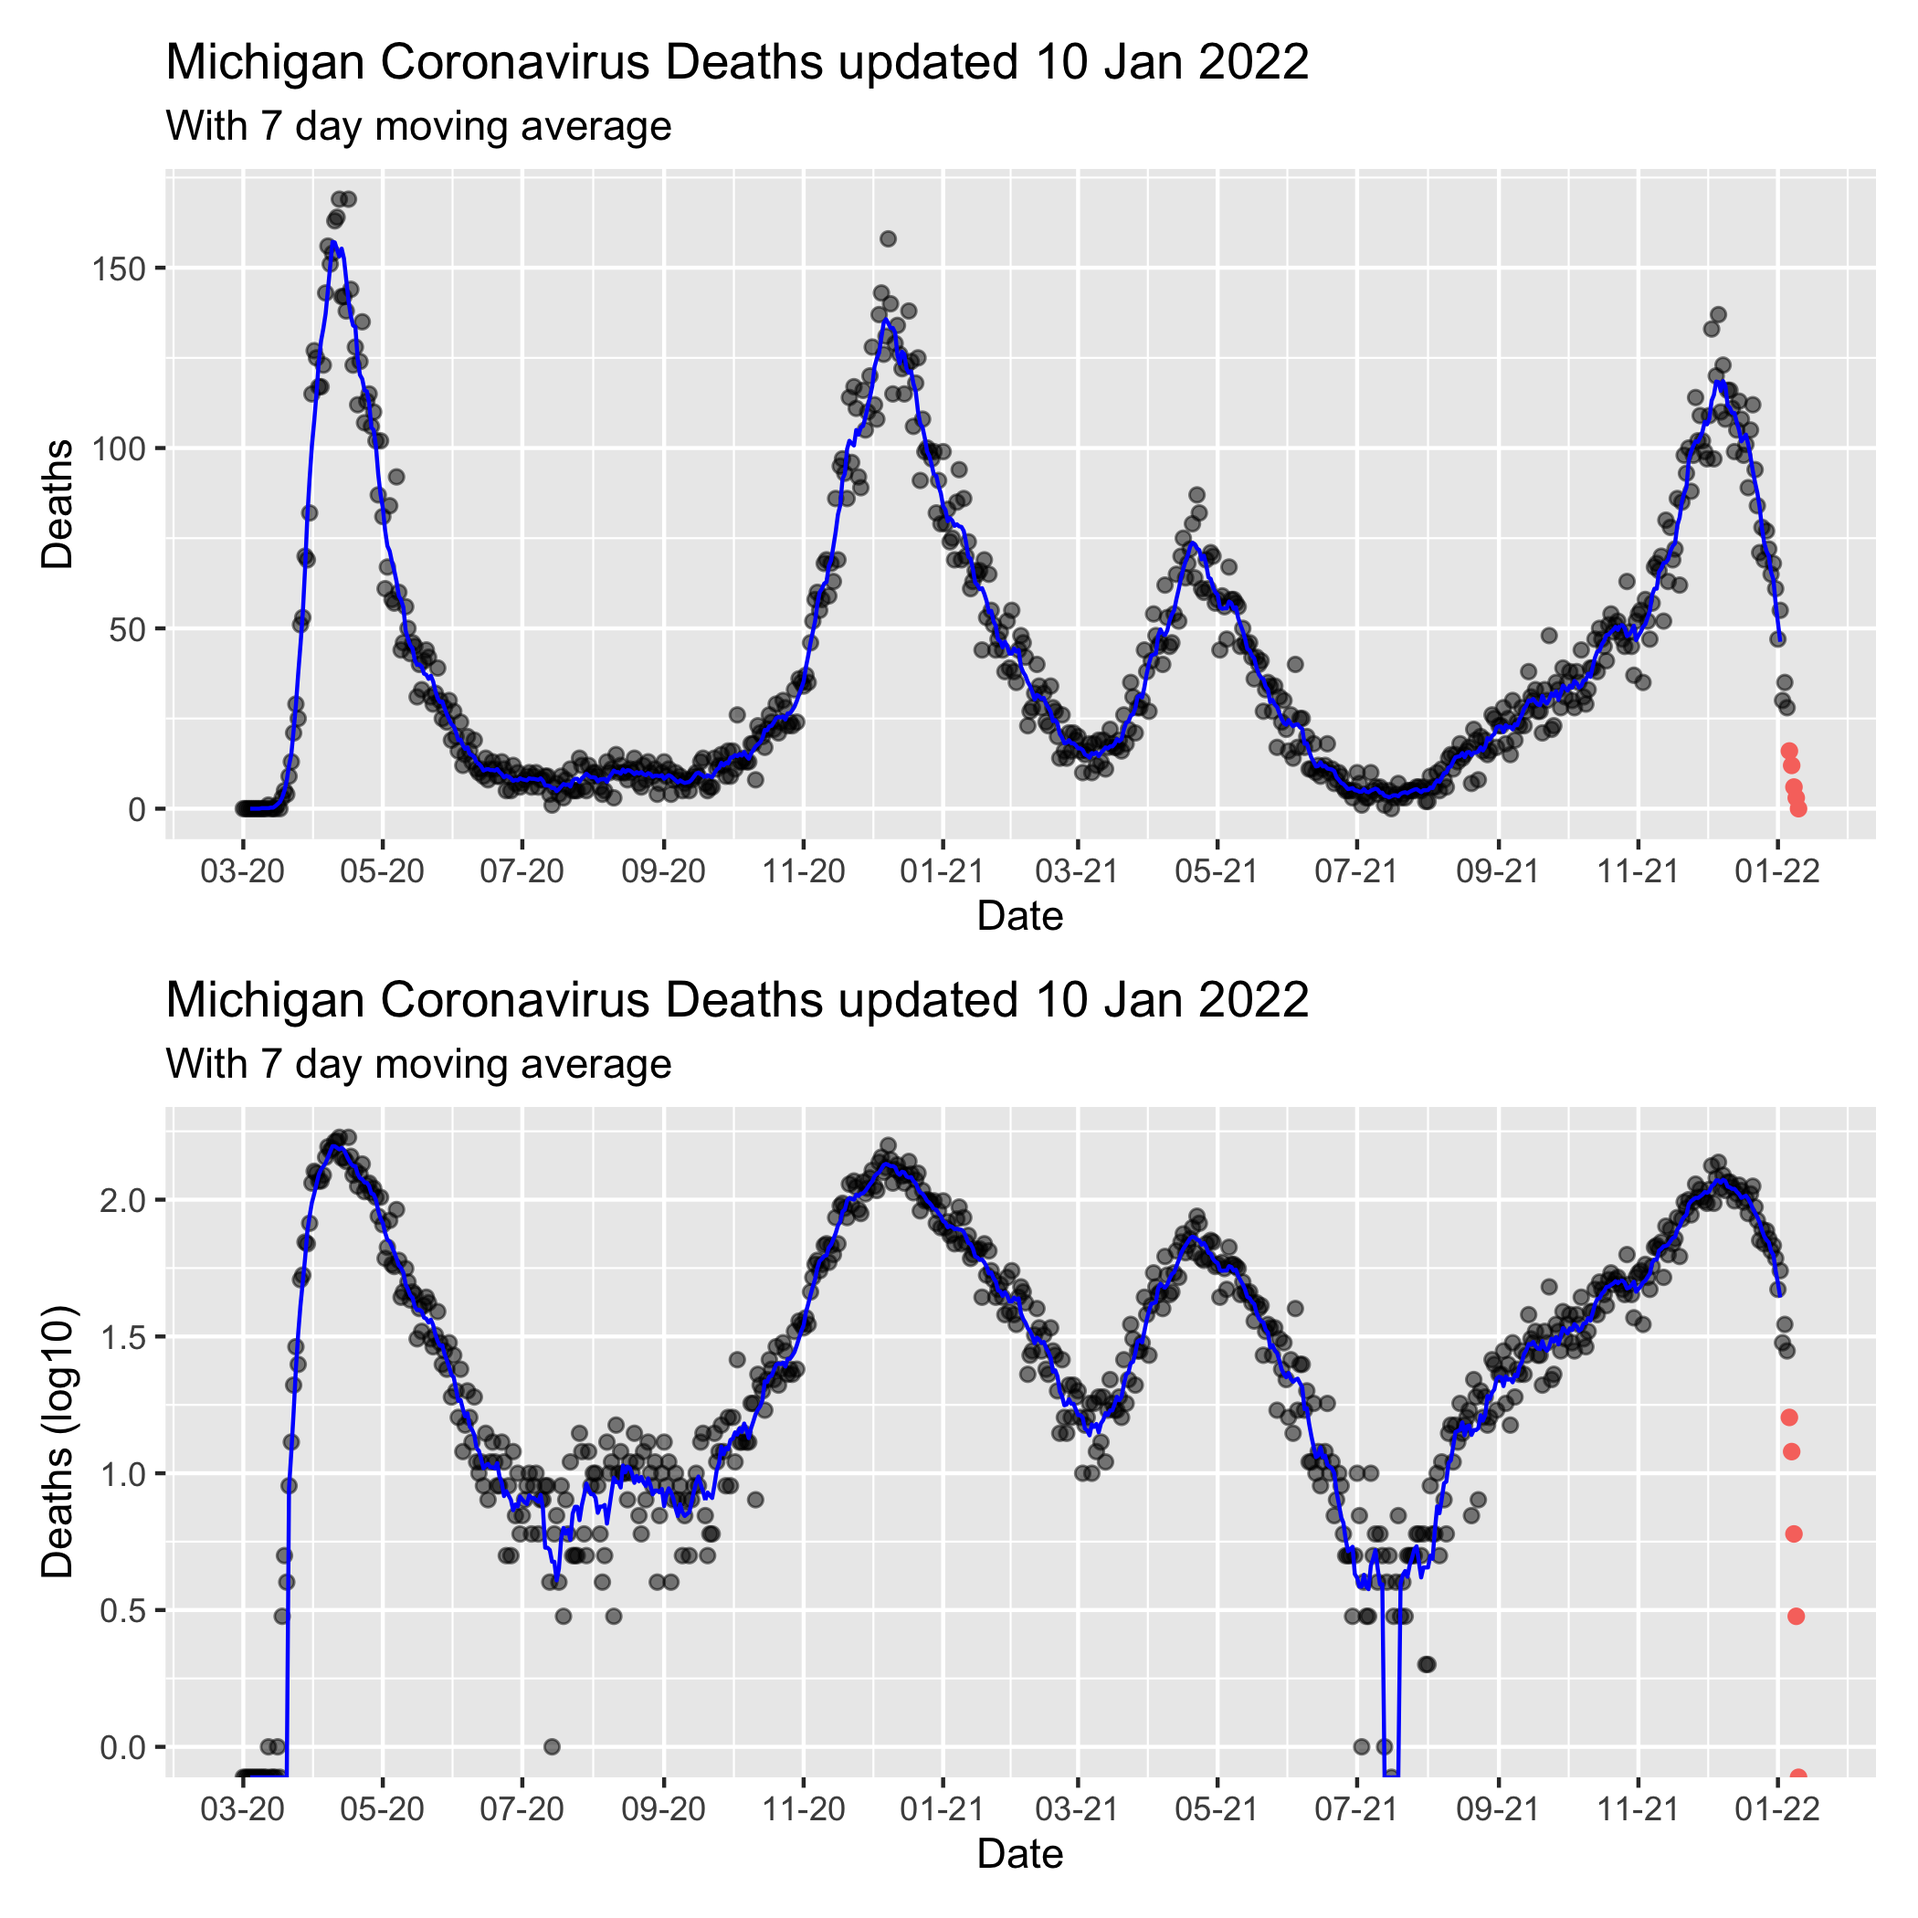
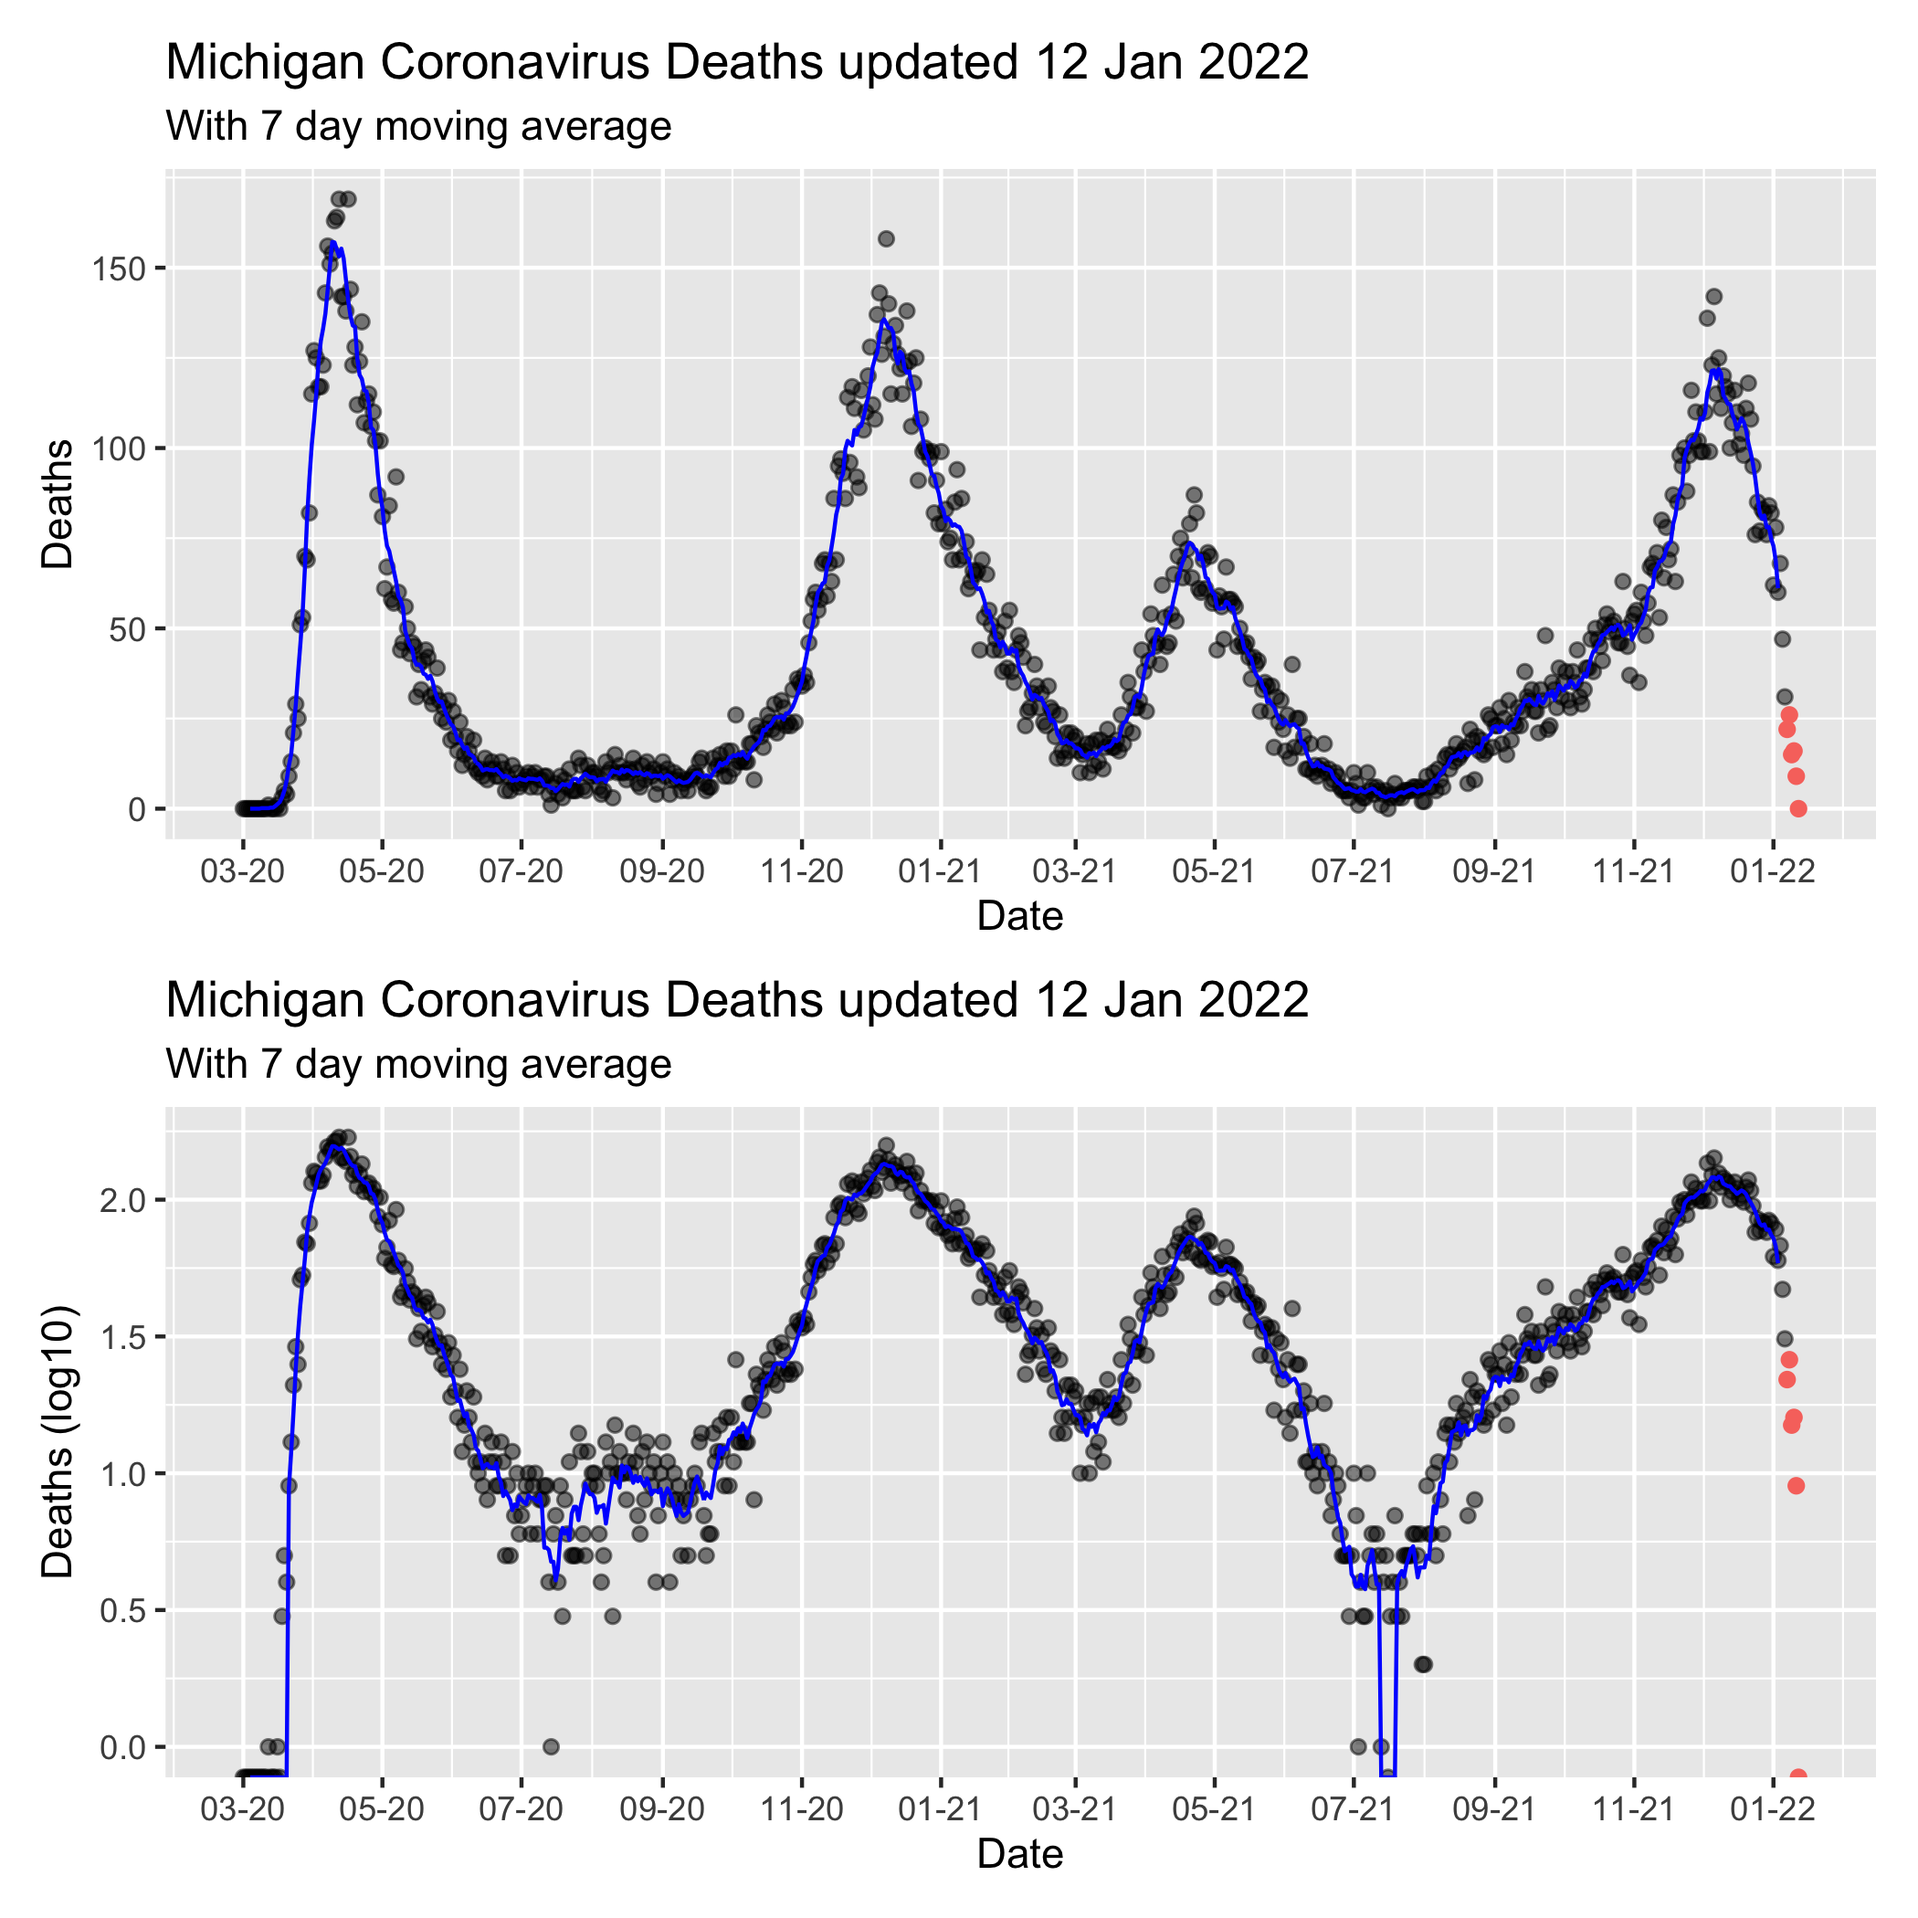
Jan-13 2022 18:12 update

diff --git a/MiCorona.md b/MiCorona.md
@@ -1,7 +1,7 @@
 Michigan COVID Data
 ================
 Adam D. DenHaan
-Jan 12, 2022
+Jan 13, 2022
 
 Get link for data:
 
@@ -41,18 +41,18 @@ mi_data.head()
 ```
 
     ##    COUNTY       Date CASE_STATUS  Cases  Deaths  Cases.Cumulative  \
-    ## 0  Alcona        NaT   Confirmed    0.0     5.0            1154.0   
+    ## 0  Alcona        NaT   Confirmed    0.0     5.0            1158.0   
     ## 1  Alcona 2020-03-01   Confirmed    0.0     0.0               0.0   
     ## 2  Alcona 2020-03-02   Confirmed    0.0     0.0               0.0   
     ## 3  Alcona 2020-03-03   Confirmed    0.0     0.0               0.0   
     ## 4  Alcona 2020-03-04   Confirmed    0.0     0.0               0.0   
     ## 
     ##    Deaths.Cumulative                       Updated  
-    ## 0               53.0 2022-01-10 14:34:40.961999872  
-    ## 1                0.0 2022-01-10 14:34:40.961999872  
-    ## 2                0.0 2022-01-10 14:34:40.961999872  
-    ## 3                0.0 2022-01-10 14:34:40.961999872  
-    ## 4                0.0 2022-01-10 14:34:40.961999872
+    ## 0               54.0 2022-01-12 14:52:36.371300096  
+    ## 1                0.0 2022-01-12 14:52:36.371300096  
+    ## 2                0.0 2022-01-12 14:52:36.371300096  
+    ## 3                0.0 2022-01-12 14:52:36.371300096  
+    ## 4                0.0 2022-01-12 14:52:36.371300096
 
 ``` python
 max_date = max(mi_data["Updated"])
@@ -134,7 +134,7 @@ viz_function(mi_cases_by_day_exclusive, mi_cases_by_day_last4, Date, Deaths, ver
 
 ![](MiCorona_files/figure-gfm/viz2-1.png)<!-- -->
 
-Note that the last 5 days of data have been colored red on the graph, as
+Note that the last 6 days of data have been colored red on the graph, as
 they frequently change as more information becomes available. Vertical
 orange line at 4 weeks in the past (as hospitalizations and deaths
 usually follow cases by three weeks, and the deaths graph regression
